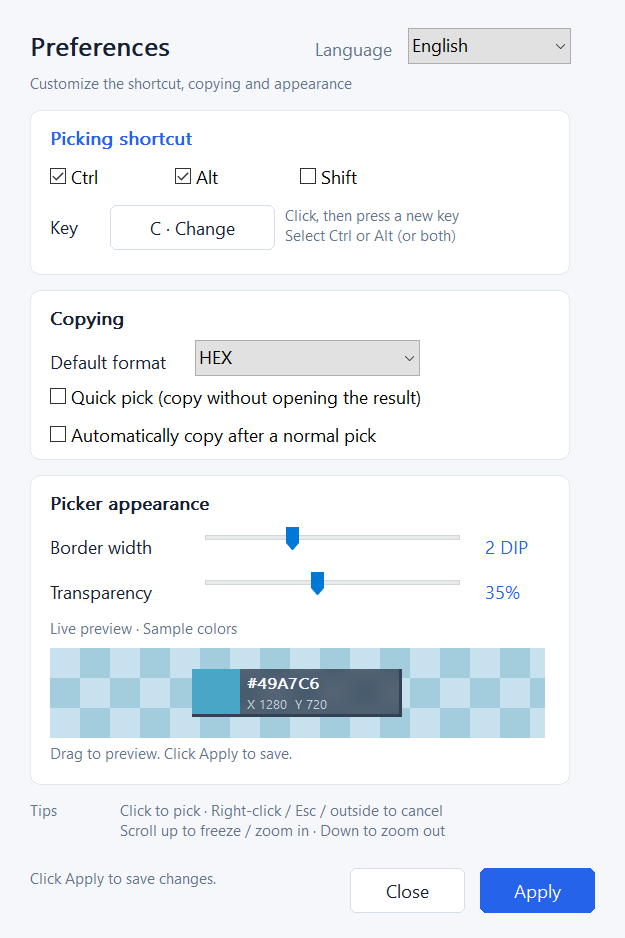
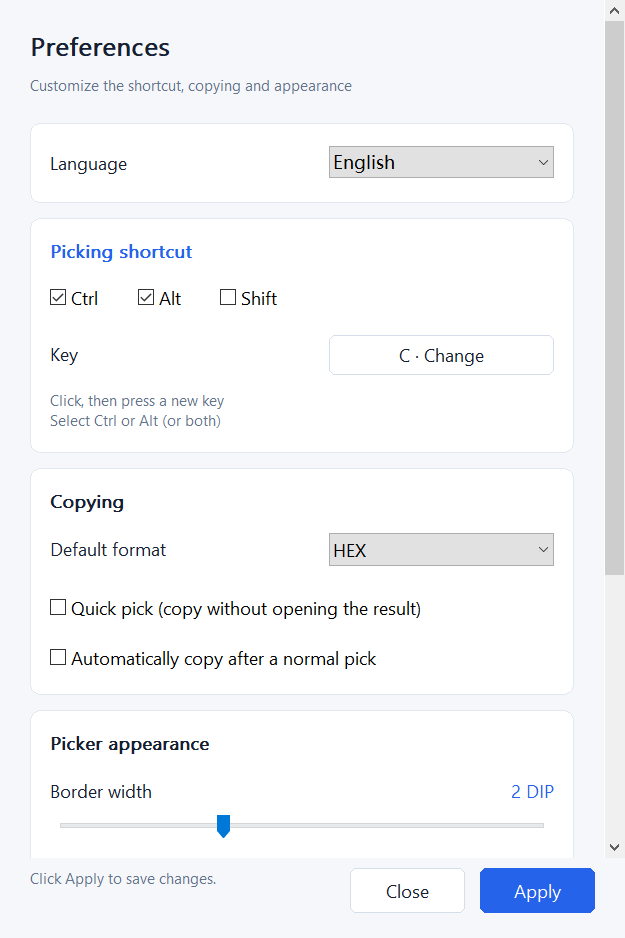
docs: refresh v0.3.0 UI guide and screenshots

diff --git a/README.md b/README.md
@@ -12,7 +12,7 @@ A native Windows color picker that stays in your system tray. Pick a pixel anywh
 2. Run the installer, or extract the entire ZIP and open `color-picker.exe`. No administrator privileges are required.
 3. On your first manual launch, read the short guide, then find Color Picker in the system tray, including the hidden-icons area. Startup at Windows sign-in stays quiet.
 4. Press **Ctrl + Alt + C**, move over the color you want, and **left-click** to select it.
-5. In the result window, copy HEX, RGB, CSS RGB, or HSL. Choose **Pick again** to select another color.
+5. In the result window, copy HEX, RGB, CSS RGB, or HSL, or choose a nearby color from the palette first. Choose **Pick again** to sample another pixel.
 
 The app and installer support **English and Simplified Chinese**. The app initially follows your Windows display language: Chinese uses Simplified Chinese; other languages use English. Change **Language** in Settings and click **Apply** to switch immediately, without restarting.
 
@@ -21,6 +21,8 @@ The target platform is **Windows 11 x64**. Windows 10 22H2 x64 compatibility has
 ## Pick precisely
 
 The live preview follows your pointer and shows the color, HEX value, and physical screen coordinates. It also refreshes when the content under a stationary pointer changes.
+
+![Compact live preview with a color swatch, HEX value, and screen coordinates](docs/images/ui-live-en.png)
 
 | Action | Control |
 | --- | --- |
@@ -39,13 +41,19 @@ The frozen window keeps the same size at screen edges as at the center, unless t
 
 Starting again during an active pick does not create another session. The tray menu shows your current shortcut and whether Windows registered it successfully. Closing a result window leaves the app in the tray. To quit completely, right-click the tray icon and choose **Exit**.
 
-## Copy the format you need
+## Adjust and copy a color
 
-The left half of the top swatch always shows the original picked color; the right half shows the current adjusted color, without visible labels. Directly below, a gapless 3 × 7 color grid offers lightness, neighboring hues, and saturation in its three rows, from top to bottom.
+The result window puts the color preview and palette above the four format rows. The left half of the top swatch always shows the original picked color; the right half shows the current adjusted color, without visible labels. The upper-right controls minimize or close the window; drag the right half of the swatch to move it.
 
-Click the original-color half to restore the first picked RGB, reset all three candidate rows and their scroll positions, and restore all four format values without copying; the right half still lets you drag the window.
+![Result window with original and adjusted swatches, a three-row palette, and four copy formats](docs/images/ui-result-en.png)
 
-Hover over a row and use the mouse wheel to browse candidates without changing the current color or clipboard. Click a color to select it: that row centers on the selection, and the other two regenerate from the new color. All four formats and **Copy** buttons use the adjusted color. Original coordinates and the live or frozen source remain visible. Values are selectable, and each format row has its own **Copy** button.
+Directly below the swatch, a gapless **3 × 7 palette** offers **lightness**, **hue**, and **chroma** in its three rows, from top to bottom. Candidates use OKLCH color adjustments and are mapped to displayable RGB colors. Hue and chroma rows stay unchanged for neutral grays.
+
+Hover over a row and use the mouse wheel to browse its candidates without changing the current color or clipboard. Click a color to select it: all three rows regenerate around the selected RGB, with that color at the center. All four formats and **Copy** buttons use the adjusted color. Original coordinates and the live or frozen source remain visible.
+
+Click the left, original-color half of the swatch to restore the first picked RGB, reset all three candidate rows and their scroll positions, and restore all four format values. Selecting a candidate or restoring the original does not copy it automatically.
+
+Use **Tab** to reach the palette or original-color swatch. Within the palette, **arrow keys** move focus without changing the color; **Enter** or **Space** selects the focused candidate. Enter or Space on the original-color swatch restores the original. The format values support mouse and keyboard selection, and each row has its own **Copy** button.
 
 | Format | Example |
 | --- | --- |
@@ -54,29 +62,29 @@ Hover over a row and use the mouse wheel to browse candidates without changing t
 | CSS RGB | `rgb(255 0 0)` |
 | HSL | `hsl(0 100% 50%)` |
 
-The main Copy button uses your default format, initially HEX. A successful copy briefly changes that button to **Copied**, keeping the normal window layout stable. Only failures expand an error message. The result window supports **Tab**, **Enter**, and **Esc** for keyboard navigation and closing.
+The main Copy button uses your default format, initially HEX. A successful copy briefly changes the activated button to **Copied**, keeping the normal window layout stable. Only failures expand an error message; a successful retry hides it again. Use **Tab** to move between controls, **Enter** to activate the focused button, and **Esc** to close the result window. On a small display, the format list can scroll and labels move above the values when space is narrow.
 
 **Automatic copying and Quick pick are off by default.** Ordinary automatic copying still opens the result window. Enable **Quick pick** to always copy the default format and continue in your current app, without a result popup or focus change on success. If copying fails, the result window appears so you can retry. Your ordinary automatic-copy preference is retained while Quick pick is on and resumes when you turn it off.
 
-![Color result with selectable values and copy controls](docs/images/ui-result-en.png)
-
 ## Make it yours
 
-Right-click the tray icon and open **Settings** (设置 in Chinese).
+Right-click the tray icon and open **Settings** (设置 in Chinese). The **Preferences** page groups language, picking shortcut, copying, and picker appearance in separate white cards on a light-gray background.
+
+![English Preferences page with language, shortcut, copying, and appearance controls](docs/images/ui-settings-en.png)
 
 | Setting | Options | Default |
 | --- | --- | --- |
 | Language | English / 简体中文 | Matches Windows; English fallback |
-| Global shortcut | Ctrl and/or Alt, optional Shift, plus A–Z, 0–9, or F1–F11 | Ctrl + Alt + C |
-| Default copy format | HEX, RGB, CSS RGB, HSL | HEX |
-| Copy automatically after picking | On / off | Off |
-| Quick pick: copy without opening a result | On / off; always copies the default format | Off |
+| Picking shortcut | Ctrl and/or Alt, optional Shift, plus A–Z, 0–9, or F1–F11 | Ctrl + Alt + C |
+| Default format | HEX, RGB, CSS RGB, HSL | HEX |
+| Automatically copy after a normal pick | On / off; unavailable while Quick pick is on | Off |
+| Quick pick (copy without opening the result) | On / off; always copies the default format | Off |
 | Border width | 0–6 DIP; 0 hides the border | 2 DIP |
-| Picker background transparency | 0–80%; 0 is opaque | 35% |
+| Transparency | 0–80%; 0 is opaque | 35% |
 
 To change the shortcut, select its modifiers, click the main-key button, and press the new letter, digit, or function key. **Esc** or moving focus away cancels key recording. F12 is reserved and cannot be used.
 
-Settings fits the monitor's available height. On a small display or at high scaling, scroll the content; **Apply** stays visible at the bottom. The sample-color preview updates immediately as you drag the border and transparency sliders. It uses synthetic colors and saves nothing until you click Apply.
+Settings fits the monitor's available height. On a small display or at high scaling, scroll the content; the status message, **Close**, and **Apply** stay visible at the bottom. Tab navigation brings the focused control into view. The **Live preview · Sample colors** area updates immediately as you drag the border and transparency sliders. It uses synthetic colors and saves nothing until you click Apply.
 
 Click **Apply** (应用 in Chinese) to save, then close Settings before picking again. A saved language change updates Settings, the tray menu, and subsequent picking windows immediately, while preserving your scroll position. A pick request while Settings is open restores that window and explains why picking is paused, preserving your edits. Closing without applying discards your edits. If a new shortcut is unavailable or saving fails, the previous settings and language remain active. Picking previews and the result window share a right and bottom border. Transparency affects the picking previews' information backgrounds; color swatches and magnified pixels stay opaque.
 

diff --git a/docs/ui-preview.md b/docs/ui-preview.md
@@ -1,27 +1,30 @@
-# 原生界面视觉更新
+# 界面预览
+
+本文对应 **v0.3.0**，截图于 **2026-10-19** 使用当前版本的原生窗口重新导出。
+预览使用合成颜色和默认设置；取色浮窗使用合成棋盘背景展示磨砂效果。
+所有图片保持原始像素尺寸，本轮导出环境为 Windows、125% 缩放（120 DPI）。
+截图中的屏幕坐标随导出时的显示器工作区变化，不是固定示例值。
+
+## 当前界面
 
 2026-10-19：结果窗口增加调色盘，默认尺寸为 420×392 DIP，最终复制失败时高度展开至 418 DIP。
 顶部预览由原来的 112 DIP 减半为 56 DIP，左半始终显示原始取色，右半显示当前调整色，
 两半均不显示文字标签。其下紧贴 84 DIP 高的 3×7 无缝色格，三行依次为明暗、相邻色相和浓淡。
 鼠标悬浮某行时，滚轮只浏览该行候选，不改变当前色或剪贴板；点击才选色，
-该行以所选色为基准居中，另外两行以新色重新生成。色格获得焦点后，方向键仅移动焦点，
+三行均以所选 RGB 为基准重新生成并居中。候选通过 OKLCH 调整明度、色相和色度，
+再映射为可显示的 RGB；中性灰的色相与浓淡行保持灰色。色格获得焦点后，方向键仅移动焦点，
 Enter / Space 选择颜色；
 四种格式与复制均使用当前调整色。
 点击左半原始色块可恢复首次取色 RGB，重置三行候选及其滚轮位置，并同步恢复四种格式，
 不会自动复制；右半仍可拖动窗口。
 
-以下保留旧日期的历史说明；其中 420×364 / 390 DIP 的结果窗口与 112 DIP 顶部色块
-已由上述 2026-10-19 规格替代，不是当前尺寸。
-
-2026-09-21：结果窗口默认收紧为 420×364 DIP，按钮下方只保留 16 DIP；
 正常复制只让对应按钮短暂显示“已复制”，窗口位置和大小保持稳定。
-只有最终复制失败才展开详细状态栏至 390 DIP，并保证反馈留在工作区内；重试成功后收回。
+只有最终复制失败才展开详细状态栏，并保证反馈留在工作区内；重试成功后收回。
 右、下两侧复用取色浮窗的灰蓝边框和 0–6 DIP 粗细设置；最大粗细也不会被反馈区域遮住。
 结果窗口在 Windows 10 / 11 上统一采用直角、无系统阴影的扁平样式，只保留上述自定义边框。
 通过关闭该窗口的 DWM 非客户区渲染，并在 Windows 11 上显式禁止圆角实现；
 Windows 10 不支持的圆角 / 边框颜色属性按可选项处理。
-顶部 112 DIP 是无内边距、无文字覆盖的整幅取色色块，贴齐上、左边缘并避开右侧边框。
-来源与坐标移到色块下方；
+来源与原始屏幕坐标位于调色盘下方，不随调整色改变；
 色值区采用白底列表、浅灰圆角字段、等宽数值与无边框行内复制，默认复制为深色主操作。
 剪贴板暂时被占用时会有限重试，成功或失败后停止；Tab / Enter / Esc 保留。
 只读文本切换焦点时清除旧选区，同一时间仅保留当前文本框的选中；支持鼠标与键盘选择，
@@ -90,10 +93,14 @@ Windows 10 不支持的圆角 / 边框颜色属性按可选项处理。
 仅在捕获排除设置成功时启用；分配或绘制失败自动退回原有纯色背景。
 
 字体与画刷由窗口持有，字体只在 DPI / Surface 变化时重建；未增加常驻计时器、
-输入钩子、动画或额外运行时依赖。最新 Release 的分阶段进程占用与历史环境差异
-见[2026-09-21 性能复测](performance-running-app.md)；短期测量不替代长时间工作流验收。
+输入钩子、动画或额外运行时依赖。历史 Release 的分阶段进程占用与环境差异
+见[2026-09-21 性能复测](performance-running-app.md)；该记录不代表 v0.3.0 的性能复测，
+短期测量不替代长时间工作流验收。
 
-## 本机检查
+## 验证记录
+
+本轮文档更新重新构建了 v0.3.0 的 Release 预览程序，并导出检查下方 11 张图片。
+以下是各次功能变更的既有验证记录，未将截图导出视为真实取色、剪贴板或多屏验收。
 
 - 2026-10-19 结果调色盘：6 项核心颜色数学模型测试、96–288 DPI 无缝矩形几何回归，
   以及滚轮浏览、点击选色、复制颜色快照与旧计时器消息回归均通过。
@@ -113,8 +120,7 @@ Windows 10 不支持的圆角 / 边框颜色属性按可选项处理。
   完整 `scripts/verify-windows.ps1` 和 3 项 `windows_selection_ui` 桌面冒烟通过；
   真实 GDI 捕获验证 75×75 / 105×105 / 120×120 快照与超限拒绝。
   实际鼠标跨屏操作仍待体验验收。
-- Windows 11；图片由预览程序直接导出自身原生窗口，使用合成取色数据。
-- `scripts/verify-windows.ps1` 通过：格式、Clippy、98 项默认测试、x64 Release、
+- 2026-09-21 界面更新时，`scripts/verify-windows.ps1` 通过：格式、Clippy、98 项默认测试、x64 Release、
   嵌入 manifest 和 PerMonitorV2 检查；另串行运行 15 项桌面测试通过。
 - 主程序、示例和测试统一嵌入 Common Controls v6 清单。首次指引打开时的宿主退出已实测，
   会立即关闭指引并保留未读状态；收到退出或环境变化后不会执行旧取色请求。
@@ -165,6 +171,20 @@ cargo run --example ui-preview -- result --color=F4F2F2 --output=target/result-p
 `--settings-size=宽x高` 仅调整设置预览的客户区 DIP 大小，用于强制内容溢出；
 不会改变正式程序的默认窗口尺寸或用户配置。
 
+### 更新文档图片
+
+在已解锁的 Windows 交互桌面执行：
+
+```powershell
+.\scripts\update-ui-screenshots.ps1
+```
+
+脚本使用锁定依赖构建 x64 Release 预览程序，通过 `--output` 导出窗口客户区 BMP，
+再用 Windows 的 `System.Drawing` 无损转为 PNG，不缩放或重绘界面。
+全部 11 张图片转换成功后才覆盖 `docs/images/`，临时图放在 Cargo target 目录的
+`ui-screenshots/` 下；支持 `CARGO_TARGET_DIR`。结果、设置、紧凑设置、实时和中央冻结各有中英文图，
+另有中文边缘冻结图。更新后应目视检查文字、色格、边框与滚动区域，再随文档一起提交。
+
 ### 连续滚动验证
 
 2026-10-18 先保留旧排版，把测试窗口压到 500×320 DIP，确认旧内容也必然需要滚动。
@@ -203,6 +223,9 @@ cargo test --test windows_settings_scroll --locked -- --ignored --test-threads=1
 
 ### 取色结果
 
+上方左右两半分别是原始色与当前色。刚取色时两半相同；在调色盘中选色后，
+右半与下方四种格式同步变化，左半可点击恢复原始色。
+
 ![English result](images/ui-result-en.png)
 
 ![取色结果](images/ui-result.png)
@@ -213,7 +236,15 @@ cargo test --test windows_settings_scroll --locked -- --ignored --test-threads=1
 
 ![设置](images/ui-settings.png)
 
+以下为 `--settings-size=500x320` 的紧凑设置预览：内容区出现滚动条，底部状态、关闭与应用按钮保持可见。
+
+![English settings in a short viewport with a fixed footer](images/ui-settings-compact-en.png)
+
+![紧凑设置：可滚动内容与固定底部按钮](images/ui-settings-compact.png)
+
 ### 实时取色与冻结放大
+
+![English live preview](images/ui-live-en.png)
 
 ![实时取色](images/ui-live.png)
 
@@ -221,7 +252,7 @@ cargo test --test windows_settings_scroll --locked -- --ignored --test-threads=1
 
 ![中文冻结放大与悬停色块](images/ui-frozen.png)
 
-以下是旧版边缘窄窗口的历史预览。2026-09-22 的试用版本已改为与中央相同尺寸，
-可用 `frozen-edge` 预览工作区左上角的当前布局：
+以下是 `frozen-edge` 在工作区左上角导出的当前布局，与中央冻结窗口保持相同尺寸；
+工作区不足时才收缩。截图中的色块仍对应初次冻结前的原始焦点：
 
 ![边缘快照与悬停色块](images/ui-frozen-edge.png)

diff --git a/README.zh-CN.md b/README.zh-CN.md
@@ -12,7 +12,7 @@
 2. 运行安装包，或完整解压 ZIP 后打开 `color-picker.exe`，无需管理员权限。
 3. 首次手动启动会显示简短指引，之后可在系统托盘（包括隐藏图标区域）找到 Color Picker。登录 Windows 时启动保持安静，不弹出指引。
 4. 按 **Ctrl + Alt + C**，移动到目标颜色，**左键单击**确认。
-5. 在结果窗口复制 HEX、RGB、CSS RGB 或 HSL；点击**重新取色**可继续选取。
+5. 在结果窗口复制 HEX、RGB、CSS RGB 或 HSL，也可先在调色板中选择邻近颜色；点击**重新取色**可继续选取其他像素。
 
 应用与安装器支持**简体中文和英文**。应用初始跟随 Windows 显示语言：中文系统使用简体中文，其他语言使用英文。在设置中选择**语言**并点击**应用**即可立即切换，无需重启。
 
@@ -21,6 +21,8 @@
 ## 精准取色
 
 实时浮窗跟随鼠标，显示颜色、HEX 和物理屏幕坐标。即使鼠标不动，目标位置的画面发生变化时也会更新色值。
+
+![紧凑实时浮窗：颜色、HEX 色值与屏幕坐标](docs/images/ui-live.png)
 
 | 操作 | 方式 |
 | --- | --- |
@@ -39,13 +41,19 @@
 
 取色期间重复激活不会叠加会话。托盘菜单显示当前快捷键及其在 Windows 中的注册状态。关闭结果窗口后，程序仍驻留托盘；如需完全退出，请右键托盘图标并选择**退出**。
 
-## 复制所需格式
+## 调整颜色与复制
 
-顶部色块左半始终显示原始取色，右半显示当前调整色，色块内不显示文字标签。其下是无间隙的 3 × 7 色格，三行从上到下依次提供明暗、相邻色相和浓淡候选。
+结果窗口上方为颜色预览与调色板，下方为四种格式的色值。顶部色块左半始终显示原始取色，右半显示当前调整色，色块内不显示文字标签。右上角可最小化或关闭窗口，拖动右半色块可移动窗口。
 
-点击左半原始色块可恢复首次取色 RGB，重置三行候选及其滚轮位置，并同步恢复四种格式，不会自动复制；右半仍可拖动窗口。
+![结果窗口：原始 / 调整双色预览、三行调色板与四种复制格式](docs/images/ui-result.png)
 
-鼠标悬停在某行时，滚动滚轮只浏览该行候选，不改变当前色或剪贴板。点击色格才会选择颜色：该行将所选色居中，另外两行以新色重新生成。四种格式的色值与**复制**按钮均使用调整色；原始坐标与实时 / 冻结来源保持可见。色值文本可选择，每种格式都有独立的**复制**按钮。
+紧贴色块下方的无缝 **3 × 7 调色板**，从上到下依次提供**明暗**、**色相**和**浓淡**候选。候选色使用 OKLCH 调整并映射到可显示的 RGB 颜色；中性灰色的色相与浓淡两行保持不变。
+
+鼠标悬停在某行时，滚动滚轮只浏览该行候选，不改变当前色或剪贴板。点击色格才会选择颜色：三行均以所选 RGB 重新生成，并将该色居中。四种格式的色值与**复制**按钮均使用调整色；原始坐标与实时 / 冻结来源保持可见。
+
+点击左半原始色块可恢复首次取色 RGB，重置三行候选及其滚轮位置，并同步恢复四种格式。选择候选色或恢复原始色均不会自动复制。
+
+可用 **Tab** 将焦点移至调色板或原始色块。在调色板中，**方向键**只移动焦点，**Enter** 或**空格**选择当前色格；在原始色块上按 Enter 或空格可恢复原始色。格式色值支持鼠标与键盘选择，每行都有独立的**复制**按钮。
 
 | 格式 | 示例 |
 | --- | --- |
@@ -54,29 +62,29 @@
 | CSS RGB | `rgb(255 0 0)` |
 | HSL | `hsl(0 100% 50%)` |
 
-主复制按钮使用设置中的默认格式，初始为 HEX。复制成功时，对应按钮短暂显示**已复制**，正常窗口布局保持稳定；只有失败时才展开错误信息。结果窗口支持 **Tab**、**Enter** 和 **Esc** 进行键盘导航和关闭。
+主复制按钮使用设置中的默认格式，初始为 HEX。复制成功时，对应按钮短暂显示**已复制**，正常窗口布局保持稳定；只有失败时才展开错误信息，重试成功后收起。可用 **Tab** 切换控件、**Enter** 激活当前按钮、**Esc** 关闭结果窗口。屏幕空间不足时，色值列表可滚动；宽度较窄时，格式标签移至色值上方。
 
 **自动复制和快速取色均默认关闭。**普通自动复制仍会打开结果窗口。开启**快速取色**后，每次确认颜色都会复制默认格式，成功时不弹出结果窗口、不改变当前应用的焦点，方便直接粘贴；复制失败才显示结果供重试。开启快速取色时会保留普通自动复制的偏好，关闭快速取色后恢复使用该偏好。
 
-![取色结果、可选择的色值与复制按钮](docs/images/ui-result.png)
-
 ## 个性化设置
 
-右键托盘图标，打开**设置**。
+右键托盘图标，打开**设置**。**偏好设置**页面采用浅灰背景与白色卡片，语言、取色快捷键、复制行为和取色外观分区显示。
+
+![中文偏好设置：语言、快捷键、复制行为与取色外观](docs/images/ui-settings.png)
 
 | 设置 | 选项 | 默认值 |
 | --- | --- | --- |
 | 语言 | 简体中文 / English | 跟随 Windows，非中文使用英文 |
-| 全局快捷键 | Ctrl 和 / 或 Alt，可选 Shift，加 A–Z、0–9 或 F1–F11 | Ctrl + Alt + C |
-| 默认复制格式 | HEX、RGB、CSS RGB、HSL | HEX |
-| 取色后自动复制 | 开 / 关 | 关 |
-| 快速取色：复制后不打开结果窗口 | 开 / 关；始终复制默认格式 | 关 |
+| 取色快捷键 | Ctrl 和 / 或 Alt，可选 Shift，加 A–Z、0–9 或 F1–F11 | Ctrl + Alt + C |
+| 默认格式 | HEX、RGB、CSS RGB、HSL | HEX |
+| 普通取色后自动复制 | 开 / 关；快速取色开启时不可操作 | 关 |
+| 快速取色（复制后不打开结果窗口） | 开 / 关；始终复制默认格式 | 关 |
 | 边框粗细 | 0–6 DIP；0 隐藏边框 | 2 DIP |
-| 取色背景透明度 | 0–80%；0 为不透明 | 35% |
+| 背景透明度 | 0–80%；0 为不透明 | 35% |
 
 修改快捷键时，先勾选修饰键，再点击主键按钮并按下新字母、数字或功能键。按 **Esc** 或将焦点移出控件会取消监听。F12 为保留键，不可使用。
 
-设置窗口按显示器可用高度调整大小。屏幕较小或缩放较高时，内容可滚动，底部的**应用**按钮保持可见。拖动边框与透明度滑块时，示例颜色预览立即更新；预览使用合成颜色，点击应用才会保存修改。
+设置窗口按显示器可用高度调整大小。屏幕较小或缩放较高时，内容可滚动，底部的状态提示、**关闭**和**应用**按钮保持可见；Tab 导航会将当前控件滚动到可见区域。拖动边框与透明度滑块时，**实时预览 · 示例颜色**区域立即更新；预览使用合成颜色，点击应用才会保存修改。
 
 点击**应用**保存，再关闭设置窗口即可继续取色。语言保存成功后，设置、托盘菜单及后续取色窗口立即使用新语言，设置页保留当前滚动位置。设置打开期间触发取色，会恢复已有设置窗口并说明暂停取色的原因，保留当前编辑内容。未应用就关闭会放弃修改。新快捷键冲突或保存失败时，旧设置和原语言继续有效。取色浮窗与结果窗口使用一致的右侧和底部边框；透明度仅影响取色浮窗的信息区背景，色块和放大像素始终保持不透明。
 

diff --git a/docs/troubleshooting.md b/docs/troubleshooting.md
@@ -13,7 +13,7 @@ On first use, Chinese Windows display languages select Simplified Chinese; other
 1. Check the system tray, including hidden icons, to confirm the app is running.
 2. Check the current shortcut and registration status in the tray menu. If Settings is open, a pick request restores that window and explains that picking is paused; apply any edits you want to keep, then close it.
 3. Activate the tray icon or choose **开始取色** (Start picking) from its menu. This works even when the global shortcut could not be registered, once Settings is closed.
-4. Open **设置** (Settings), choose an unused shortcut, and click **应用** (Apply). A shortcut needs Ctrl and/or Alt, optionally Shift, and one of A–Z, 0–9, or F1–F11. You can also click Apply to retry registering the existing shortcut.
+4. Open **设置** (Settings), select Ctrl and/or Alt (optionally Shift), then click the **主键** (Key) button and press A–Z, 0–9, or F1–F11. Esc, Tab, or leaving the button cancels key recording. Click **应用** (Apply) to save and register the shortcut. You can also click Apply to retry registering the existing shortcut.
 
 Windows notification settings can suppress error notifications. If the issue persists, enable the optional file log below.
 
@@ -40,6 +40,14 @@ The result window expands to report clipboard errors. If another application is 
 Check **快速取色** (Quick pick) in Settings. It is off by default. When enabled, every pick copies the default format and leaves your current app focused, without a result popup on success. A failed copy reveals the result and its error so you can retry.
 
 Quick pick temporarily disables the ordinary automatic-copy checkbox while preserving its value. Turn Quick pick off to resume ordinary results and your previous automatic-copy preference.
+
+## Using the result palette
+
+The result has two color blocks at the top: the left keeps the original sampled color, and the right shows the current color. The three rows below offer lightness, hue, and chroma variations, with seven candidates per row. Hover over a row and scroll to browse its candidates; scrolling alone does not change the current color or clipboard. Click a candidate to select it and rebuild all three rows around that color. The four format values and Copy buttons then use the selected color.
+
+Click the left color block to restore the original sampled color and reset all three rows. Selecting a candidate or restoring the original does not automatically copy it; use a Copy button afterward. The source and screen coordinates still describe the original pick.
+
+For keyboard use, Tab to a palette cell, use the arrow keys to move focus, then press Enter or Space to select. Arrow keys alone do not select a color. Near-neutral colors can show identical hue and chroma candidates; this avoids introducing an arbitrary hue into a gray color.
 
 ## The welcome guide appears or is missing
 

diff --git a/docs/known-limitations.md b/docs/known-limitations.md
@@ -1,4 +1,4 @@
-# 当前预览版边界
+# 当前版本边界
 
 - 目标为 Windows 11 x64；Windows 10 22H2、干净机器启动尚未验证。
 - 普通 SDR 桌面 8 位 RGB；不承诺 HDR/WCG、原始 alpha、ICC 前原始颜色或受保护内容。
@@ -11,6 +11,7 @@
   保存前及写入临时文件后的字节比较不能排除最后比较与替换之间的外部写入竞态。
 - 软件及安装包尚未签名；安装版支持可选登录启动和手动覆盖升级，
   不含后台自动更新、历史记录或网络请求。便携 ZIP 不注册启动项。
-- 当前是本地预览包。项目分发许可证尚未选定，详见 `LICENSE-STATUS.md`。
+- 项目采用 [MIT 许可证](../LICENSE)；正式版本的安装包与便携包见
+  [GitHub Releases](https://github.com/ghostroller/color-picker/releases)。发布不代表上述实机验收项目已全部完成。
 
 完整证据和未测项目见 [验证记录](validation.md)。
